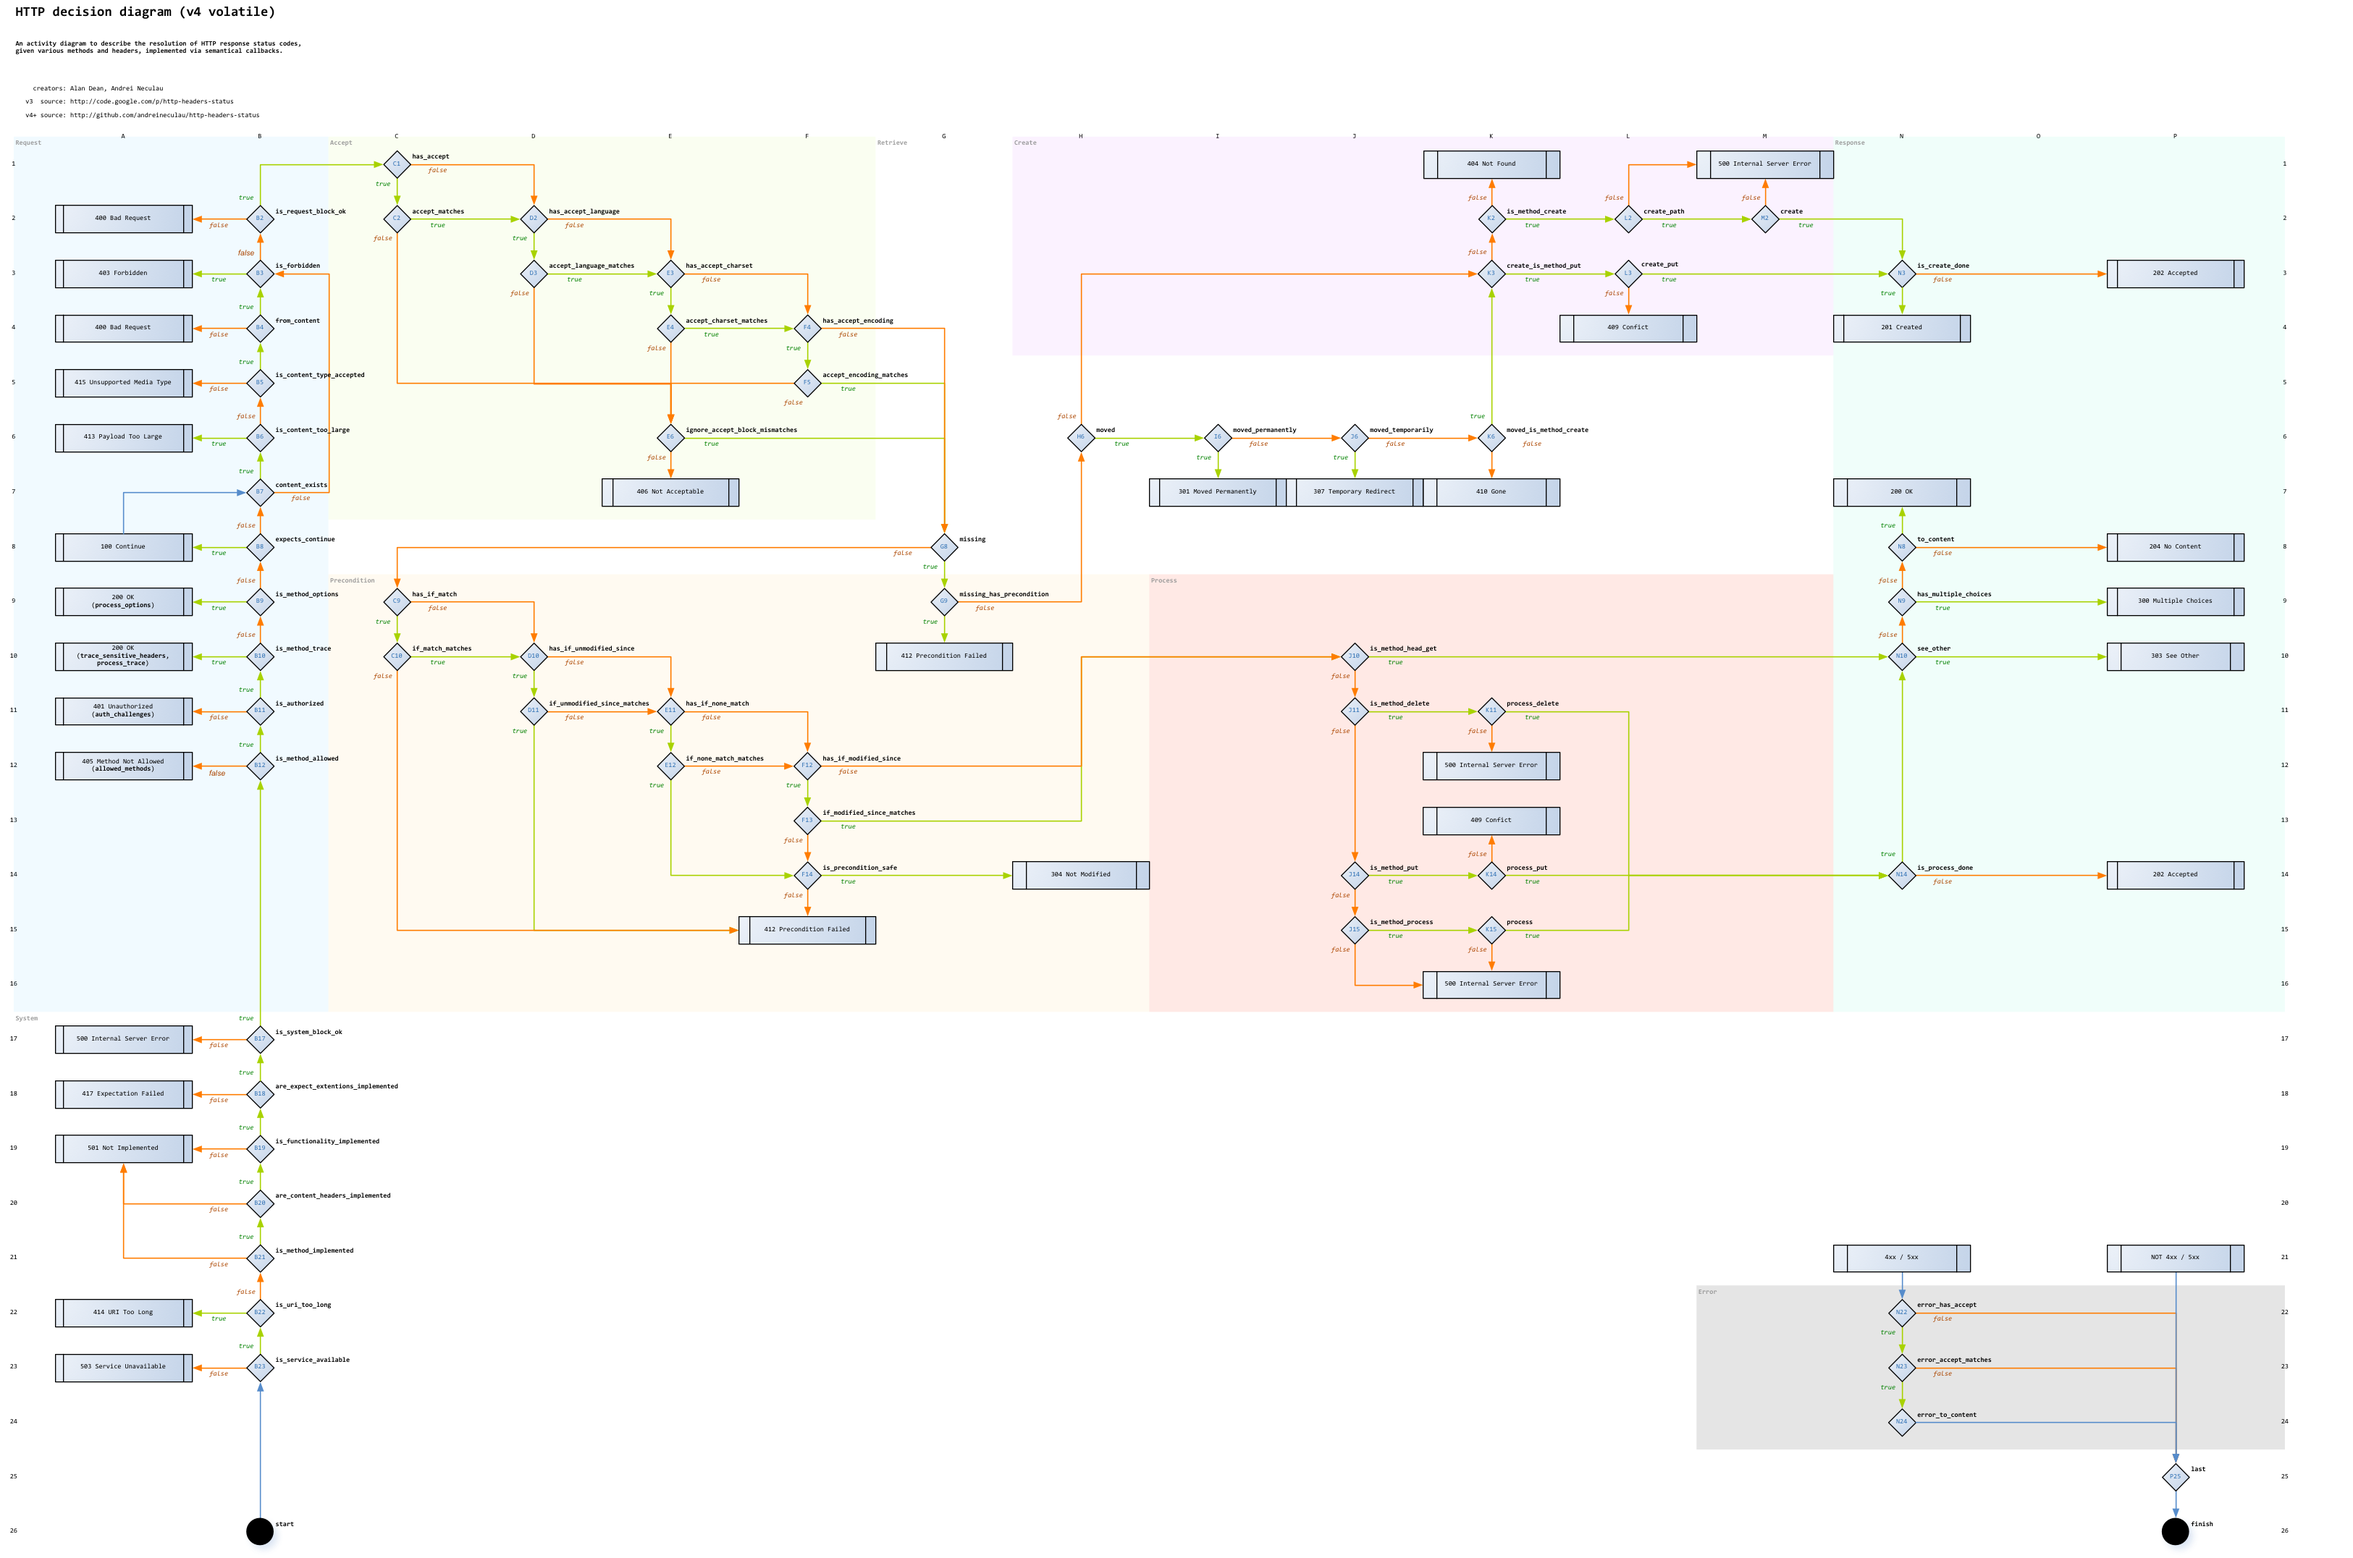
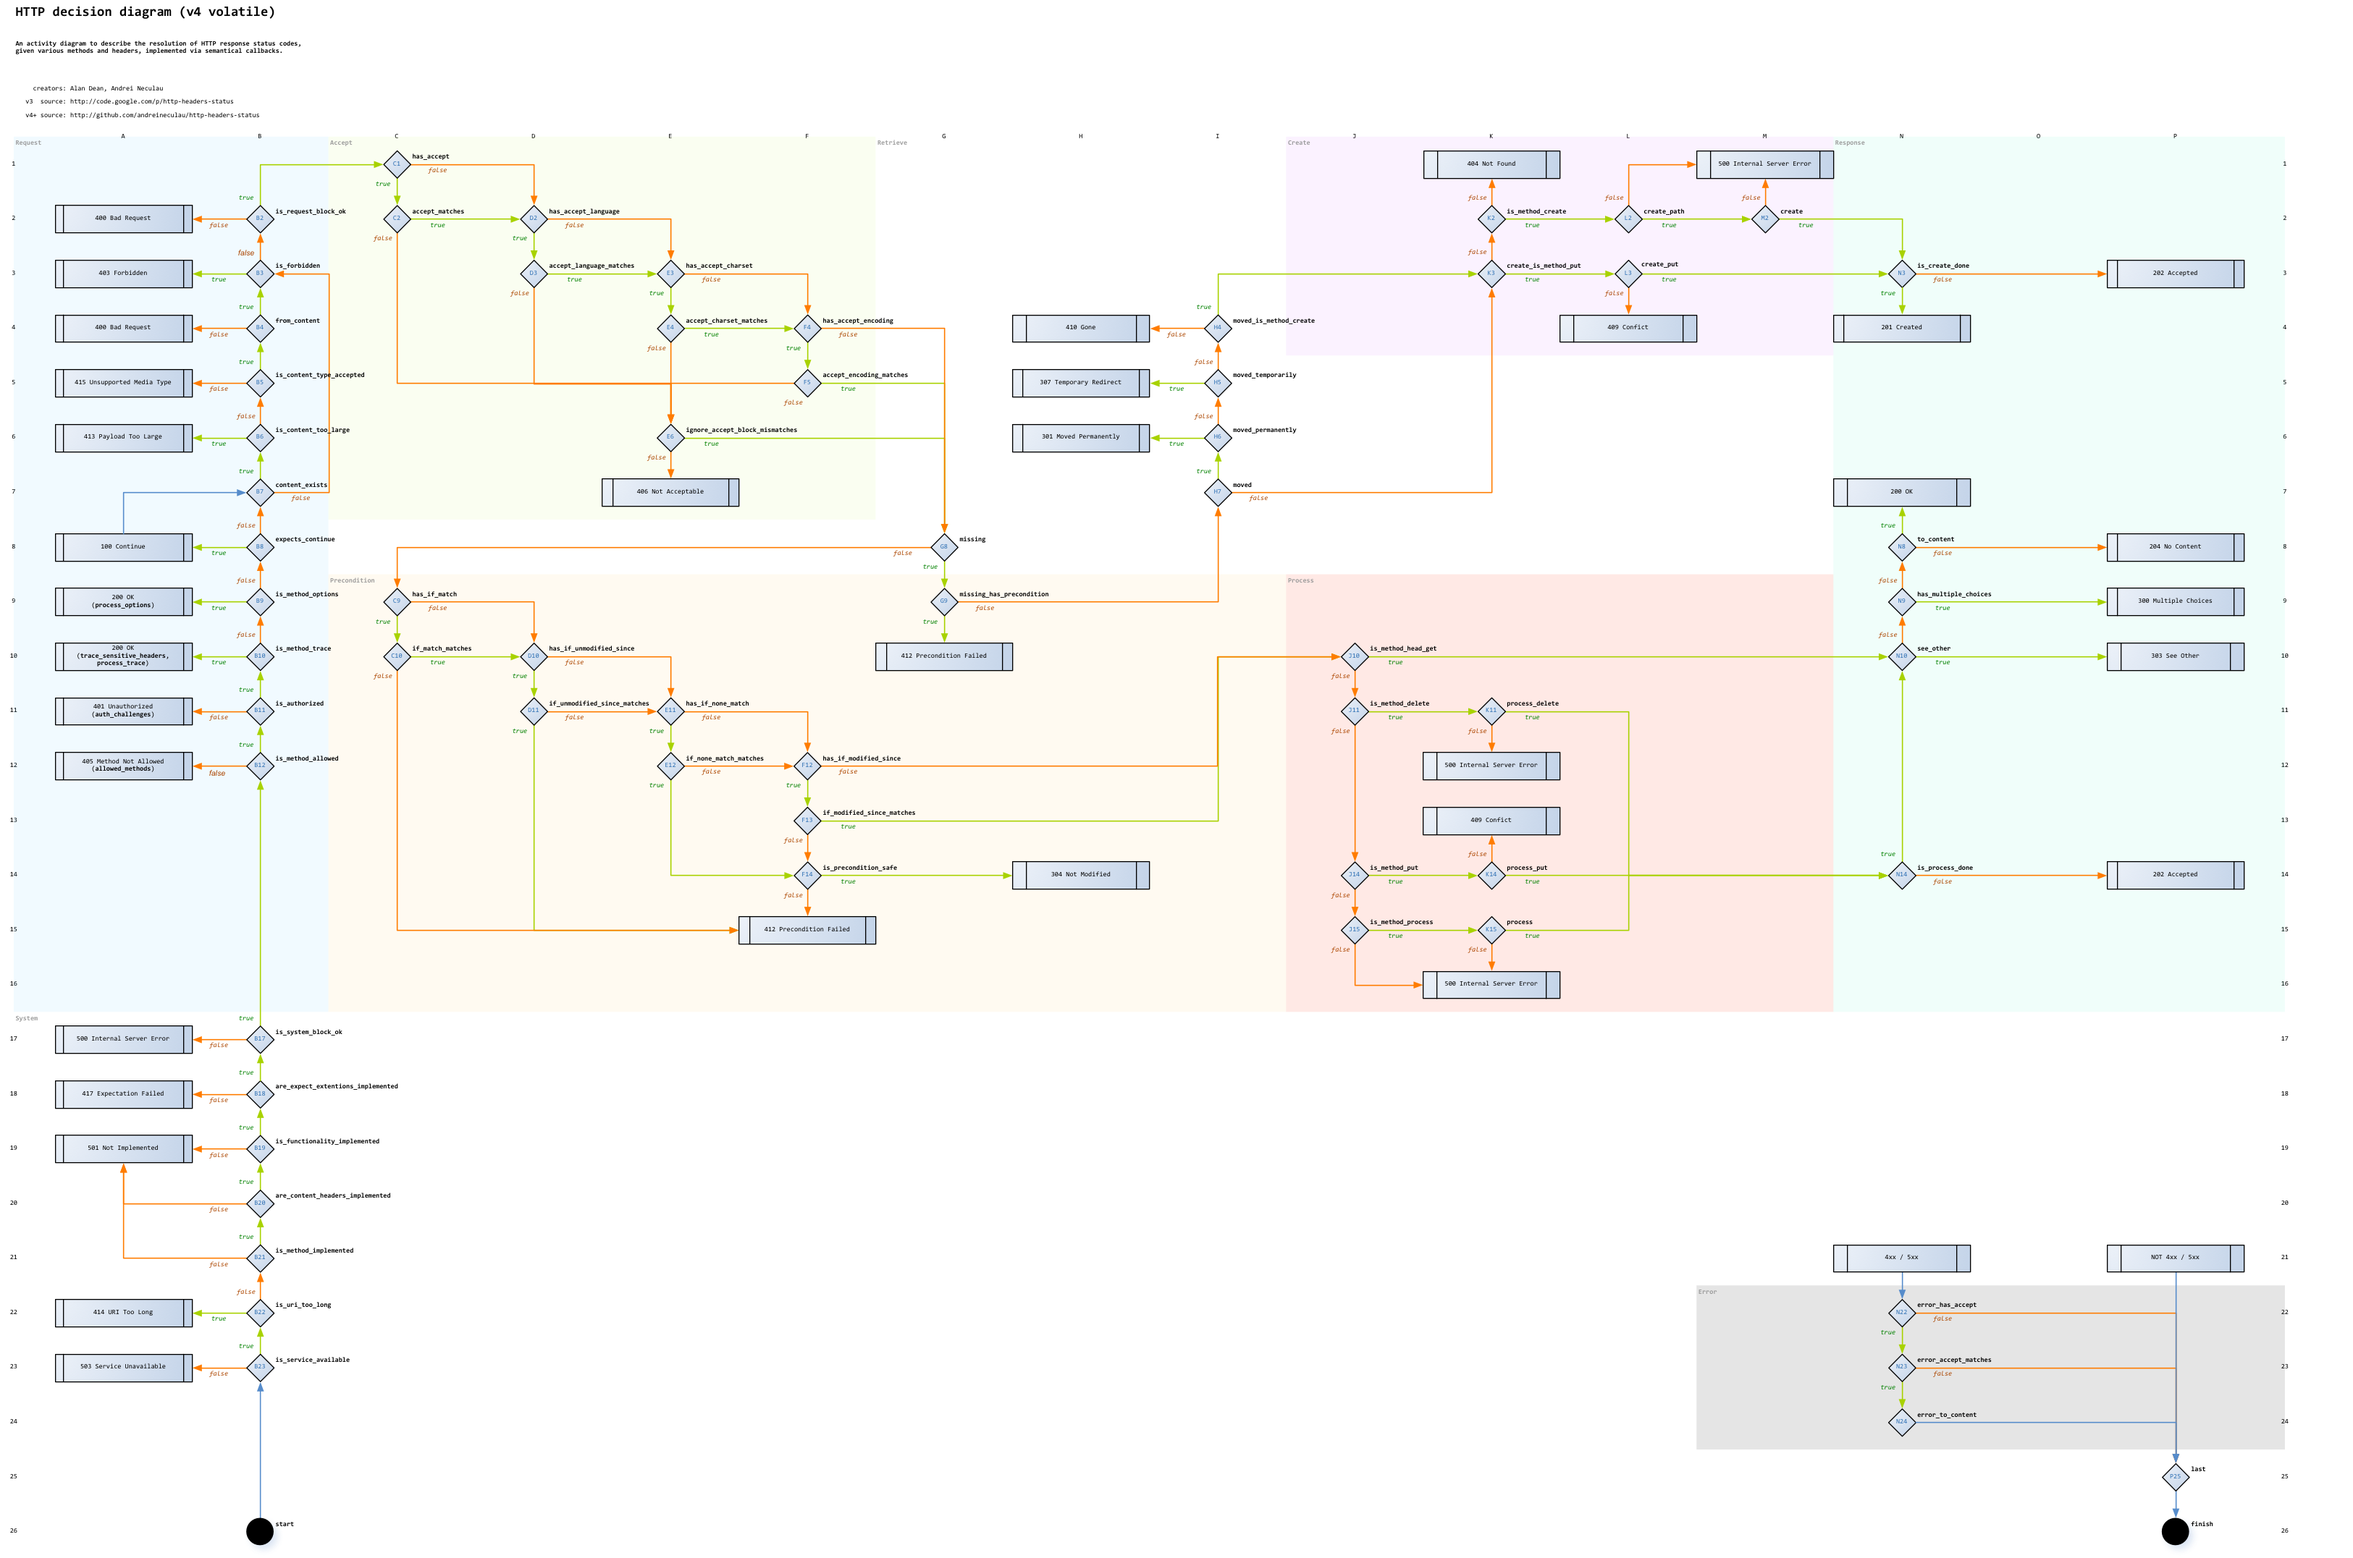
visual touch

Changed region(s): [[0.4351, 0.1867, 0.6837, 0.3423]]

diff --git a/v4/README_retrieve.md b/v4/README_retrieve.md
@@ -18,10 +18,10 @@ This block is in charge of retrieving the resource.
  | callback | output | default
 :-- | ---: | :--- | :---
 G8 | [`missing :bin`](#missing-bin) | T / F | FALSE
-H6 | [`moved :bin`](#moved-bin) | T / F | FALSE
-I6 | [`moved_permanently :bin`](#moved_permanently-bin) | T / F | FALSE
-J6 | [`moved_temporarily :bin`](#moved_temporarily-bin) | T / F | FALSE
-K6 | [`method :var`](#method-var) | *Method* | `Operation.method`
+H7 | [`moved :bin`](#moved-bin) | T / F | FALSE
+H6 | [`moved_permanently :bin`](#moved_permanently-bin) | T / F | FALSE
+H5 | [`moved_temporarily :bin`](#moved_temporarily-bin) | T / F | FALSE
+H4 | [`method :var`](#method-var) | *Method* | `Operation.method`
  | [`create_methods :var`](#create_methods-var) | [ *Method* ] | [ POST<br>]
  | [`is_method_create : in`](#is_method_create--in) | T / F |
  | [`moved_is_method_create : in`](#moved_is_method_create--in) | T / F | `is_method_create`
